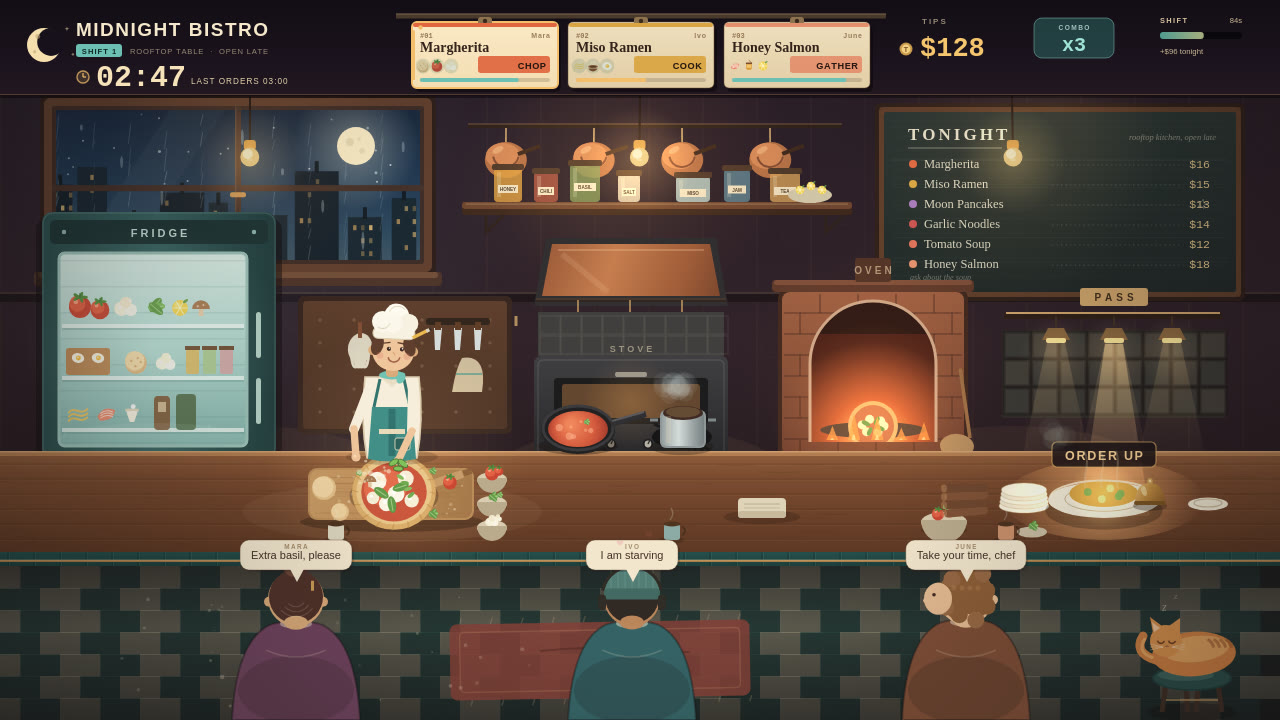
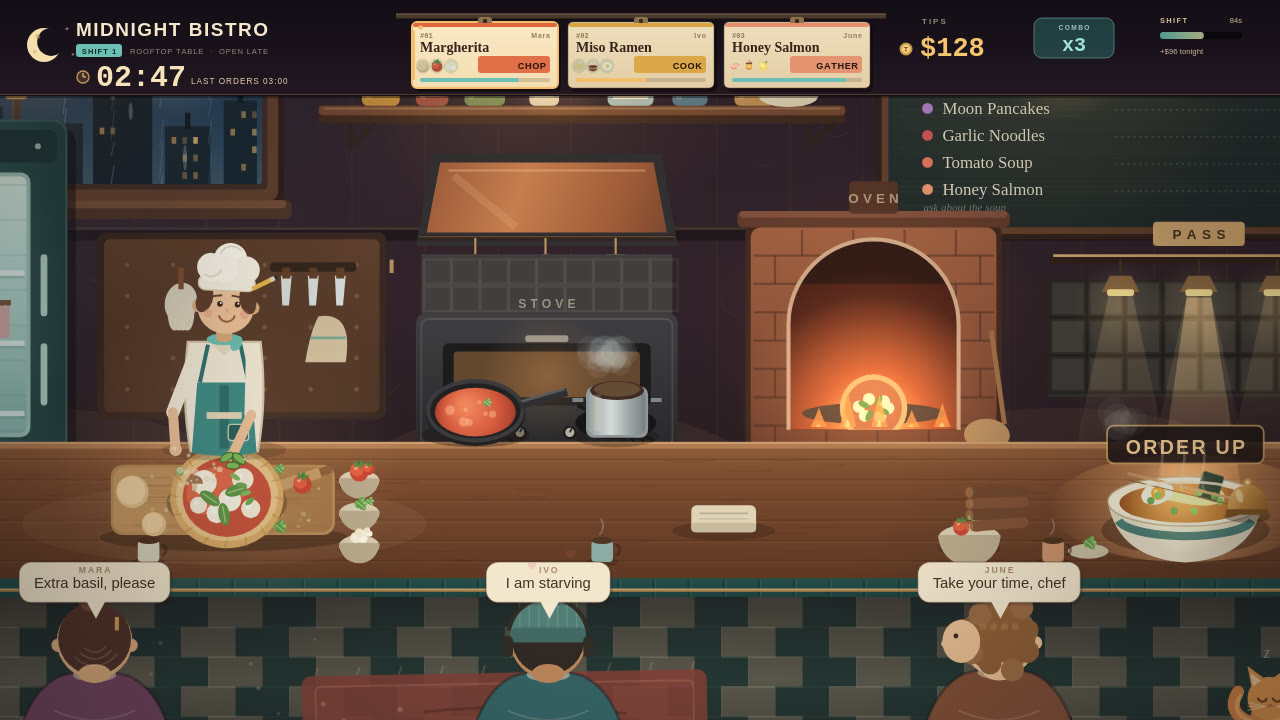
Stage the pass as the payoff: ramen bowl, lit pass, route hint

diff --git a/game/src/render.js b/game/src/render.js
@@ -1238,43 +1238,48 @@ function drawOvenTop(ctx, game) {
 }
 
 function drawPassTop(ctx, game) {
-  // stacked clean plates
-  for (let i = 0; i < 5; i++) {
-    ctx.fillStyle = i % 2 ? '#f0e5cd' : '#faf2df';
-    ctx.beginPath();
-    ctx.ellipse(1024, 506 - i * 4, 25 - i * 0.6, 7, 0, 0, Math.PI * 2);
-    ctx.fill();
-    ctx.strokeStyle = withAlpha('#b7a580', 0.5);
-    ctx.lineWidth = 0.8;
-    ctx.stroke();
-  }
   // plated tickets sit under the heat lamps; the hero bowl fills the middle lamp when the pass is clear
   const plated = game.orders.filter((o) => o && (o.plated || o.step === 'serve'));
-  if (plated.length === 0) {
-    // the middle heat lamp pools straight down onto the plated hero dish
-    ctx.save();
-    ctx.globalCompositeOperation = 'lighter';
-    const lampCone = ctx.createLinearGradient(0, 344, 0, 516);
-    lampCone.addColorStop(0, 'rgba(255,207,130,0.30)');
-    lampCone.addColorStop(1, 'rgba(255,196,118,0.07)');
-    ctx.fillStyle = lampCone;
-    ctx.beginPath();
-    ctx.moveTo(1105, 344);
-    ctx.lineTo(1123, 344);
-    ctx.lineTo(1150, 516);
-    ctx.lineTo(1080, 516);
-    ctx.closePath();
-    ctx.fill();
-    const pool = ctx.createRadialGradient(1104, 500, 4, 1104, 500, 100);
-    pool.addColorStop(0, 'rgba(255,216,148,0.42)');
-    pool.addColorStop(0.6, 'rgba(255,198,122,0.17)');
-    pool.addColorStop(1, 'rgba(255,190,116,0)');
-    ctx.fillStyle = pool;
-    ctx.beginPath();
-    ctx.ellipse(1104, 500, 100, 40, 0, 0, Math.PI * 2);
-    ctx.fill();
-    ctx.restore();
-    drawDish(ctx, 1104, 500, recipeById('ramen'), 2.15, true);
+  // clean plates stack only when a plated order shares the pass; the hero dish stands alone otherwise
+  if (plated.length > 0) {
+    for (let i = 0; i < 5; i++) {
+      ctx.fillStyle = i % 2 ? '#f0e5cd' : '#faf2df';
+      ctx.beginPath();
+      ctx.ellipse(1024, 506 - i * 4, 25 - i * 0.6, 7, 0, 0, Math.PI * 2);
+      ctx.fill();
+      ctx.strokeStyle = withAlpha('#b7a580', 0.5);
+      ctx.lineWidth = 0.8;
+      ctx.stroke();
+    }
+  }
+  // the middle heat lamp always pools straight down onto the pass, whatever is on it
+  ctx.save();
+  ctx.globalCompositeOperation = 'lighter';
+  const lampCone = ctx.createLinearGradient(0, 344, 0, 516);
+  lampCone.addColorStop(0, 'rgba(255,207,130,0.30)');
+  lampCone.addColorStop(1, 'rgba(255,196,118,0.07)');
+  ctx.fillStyle = lampCone;
+  ctx.beginPath();
+  ctx.moveTo(1105, 344);
+  ctx.lineTo(1123, 344);
+  ctx.lineTo(1150, 516);
+  ctx.lineTo(1080, 516);
+  ctx.closePath();
+  ctx.fill();
+  const pool = ctx.createRadialGradient(1104, 500, 4, 1104, 500, 100);
+  pool.addColorStop(0, 'rgba(255,216,148,0.42)');
+  pool.addColorStop(0.6, 'rgba(255,198,122,0.17)');
+  pool.addColorStop(1, 'rgba(255,190,116,0)');
+  ctx.fillStyle = pool;
+  ctx.beginPath();
+  ctx.ellipse(1104, 500, 100, 40, 0, 0, Math.PI * 2);
+  ctx.fill();
+  ctx.restore();
+  if (plated.length <= 1) {
+    // one dish waiting (or the decorative hero when the pass is clear): it fills the middle lamp
+    const hero = plated.length === 1 ? plated[0] : null;
+    const heroRecipe = hero ? hero.recipe : recipeById('ramen');
+    drawDish(ctx, 1104, 500, heroRecipe, hero ? 2.05 : 2.35, hero ? hero.quality === 'perfect' : true);
     // a bright rim keeps the plate from melting into the counter
     ctx.save();
     ctx.strokeStyle = withAlpha('#fff4d6', 0.85);
@@ -1285,12 +1290,12 @@ function drawPassTop(ctx, game) {
     ctx.restore();
     // the pass light box says what the counter already knows
     ctx.fillStyle = withAlpha('#1a1114', 0.88);
-    rr(ctx, 1104 - 52, 442, 104, 25, 5);
+    rr(ctx, 1104 - 58, 439, 116, 28, 5);
     ctx.fill();
-    ctx.strokeStyle = withAlpha('#f3bf6d', 0.65);
-    ctx.lineWidth = 1.2;
+    ctx.strokeStyle = withAlpha('#f3bf6d', 0.7);
+    ctx.lineWidth = 1.3;
     ctx.stroke();
-    text(ctx, 'ORDER UP', 1104, 460, 12.5, '#ffd79a', { weight: 700, spacing: 1.7, align: 'center' });
+    text(ctx, 'ORDER UP', 1104, 460, 14.5, '#ffd79a', { weight: 700, spacing: 1.7, align: 'center' });
     // steam curls rising into the lamp light, so the pass reads as a pass
     ctx.save();
     ctx.strokeStyle = withAlpha('#ffe6bd', 0.26);
@@ -1311,12 +1316,12 @@ function drawPassTop(ctx, game) {
     });
     // the pass light box says what the counter already knows
     ctx.fillStyle = withAlpha('#1a1114', 0.86);
-    rr(ctx, 1114 - 48, 448, 96, 23, 5);
+    rr(ctx, 1114 - 54, 444, 108, 26, 5);
     ctx.fill();
-    ctx.strokeStyle = withAlpha('#f3bf6d', 0.6);
-    ctx.lineWidth = 1.2;
+    ctx.strokeStyle = withAlpha('#f3bf6d', 0.65);
+    ctx.lineWidth = 1.3;
     ctx.stroke();
-    text(ctx, 'ORDER UP', 1114, 465, 11.5, '#ffd79a', { weight: 700, spacing: 1.6, align: 'center' });
+    text(ctx, 'ORDER UP', 1114, 464, 13, '#ffd79a', { weight: 700, spacing: 1.6, align: 'center' });
   }
   // brass bell
   drawBell(ctx, 1150, 502, game);
@@ -1340,7 +1345,105 @@ function drawPassTop(ctx, game) {
   }
 }
 
+function drawRamenBowl(ctx, x, y, scale, sparkle) {
+  const r = 26 * scale;
+  // shadow
+  ctx.fillStyle = 'rgba(24,14,9,0.34)';
+  ctx.beginPath();
+  ctx.ellipse(x, y + 7 * scale, r * 1.02, r * 0.3, 0, 0, Math.PI * 2);
+  ctx.fill();
+  // bowl body: a deep ceramic bowl seen slightly from above
+  const body = ctx.createLinearGradient(x - r, y, x + r, y);
+  body.addColorStop(0, '#e6dcc4');
+  body.addColorStop(0.45, '#f8efd9');
+  body.addColorStop(1, '#d8caae');
+  ctx.fillStyle = body;
+  ctx.beginPath();
+  ctx.moveTo(x - r * 0.94, y - r * 0.06);
+  ctx.quadraticCurveTo(x - r * 0.8, y + r * 0.62, x, y + r * 0.66);
+  ctx.quadraticCurveTo(x + r * 0.8, y + r * 0.62, x + r * 0.94, y - r * 0.06);
+  ctx.closePath();
+  ctx.fill();
+  // teal band on the bowl
+  ctx.strokeStyle = withAlpha('#2f6e69', 0.85);
+  ctx.lineWidth = 2.6 * scale;
+  ctx.beginPath();
+  ctx.ellipse(x, y + r * 0.12, r * 0.82, r * 0.22, 0, 0.15, Math.PI - 0.15);
+  ctx.stroke();
+  // rim
+  ctx.fillStyle = '#fbf3df';
+  ctx.beginPath();
+  ctx.ellipse(x, y - r * 0.08, r * 0.94, r * 0.3, 0, 0, Math.PI * 2);
+  ctx.fill();
+  ctx.strokeStyle = withAlpha('#b9a781', 0.8);
+  ctx.lineWidth = 1.2;
+  ctx.stroke();
+  // broth
+  const broth = ctx.createRadialGradient(x - r * 0.2, y - r * 0.14, 2, x, y - r * 0.08, r * 0.8);
+  broth.addColorStop(0, '#d99a4a');
+  broth.addColorStop(0.7, '#b8722f');
+  broth.addColorStop(1, '#96521f');
+  ctx.fillStyle = broth;
+  ctx.beginPath();
+  ctx.ellipse(x, y - r * 0.06, r * 0.8, r * 0.24, 0, 0, Math.PI * 2);
+  ctx.fill();
+  // noodle swirl
+  ctx.strokeStyle = withAlpha('#f3df9d', 0.95);
+  ctx.lineWidth = 2.1 * scale;
+  for (let i = 0; i < 3; i++) {
+    ctx.beginPath();
+    ctx.moveTo(x - r * 0.52 + i * 3, y - r * 0.1);
+    ctx.bezierCurveTo(x - r * 0.2, y - r * 0.24 - i * 2, x + r * 0.1, y + r * 0.04, x + r * 0.46, y - r * 0.12 - i * 2);
+    ctx.stroke();
+  }
+  // egg half
+  ctx.fillStyle = '#fbf4e2';
+  ctx.beginPath();
+  ctx.ellipse(x - r * 0.34, y - r * 0.18, r * 0.2, r * 0.13, -0.35, 0, Math.PI * 2);
+  ctx.fill();
+  circle(ctx, x - r * 0.33, y - r * 0.18, r * 0.085, '#e39a2c');
+  circle(ctx, x - r * 0.36, y - r * 0.2, r * 0.028, withAlpha('#ffd98a', 0.9));
+  // nori
+  ctx.save();
+  ctx.translate(x + r * 0.3, y - r * 0.26);
+  ctx.rotate(0.28);
+  ctx.fillStyle = '#22392c';
+  rr(ctx, -r * 0.13, -r * 0.16, r * 0.26, r * 0.32, 1.8);
+  ctx.fill();
+  ctx.strokeStyle = withAlpha('#4a6a52', 0.8);
+  ctx.lineWidth = 0.8;
+  ctx.stroke();
+  ctx.restore();
+  // scallions
+  for (let i = 0; i < 7; i++) {
+    const a = i * 1.9;
+    circle(ctx, x + Math.cos(a) * r * 0.42, y - r * 0.08 + Math.sin(a) * r * 0.12, r * 0.045, i % 2 ? '#5f9e4d' : '#7fbc5f');
+  }
+  // chopsticks resting across the rim
+  ctx.save();
+  ctx.strokeStyle = '#c79a68';
+  ctx.lineWidth = 2.2;
+  ctx.beginPath();
+  ctx.moveTo(x - r * 0.7, y - r * 0.42);
+  ctx.lineTo(x + r * 0.55, y - r * 0.12);
+  ctx.stroke();
+  ctx.strokeStyle = withAlpha('#8a5f39', 0.9);
+  ctx.lineWidth = 1;
+  ctx.beginPath();
+  ctx.moveTo(x - r * 0.7, y - r * 0.34);
+  ctx.lineTo(x + r * 0.55, y - r * 0.04);
+  ctx.stroke();
+  ctx.restore();
+  if (sparkle) {
+    ctx.save();
+    ctx.globalCompositeOperation = 'lighter';
+    glow(ctx, x, y - 6, 40, '#ffd88a', 0.24);
+    ctx.restore();
+  }
+}
+
 function drawDish(ctx, x, y, recipe, scale = 1, sparkle = false) {
+  if (recipe && recipe.id === 'ramen') return drawRamenBowl(ctx, x, y, scale, sparkle);
   const r = 26 * scale;
   ctx.save();
   ctx.fillStyle = 'rgba(24,14,9,0.3)';
@@ -1856,6 +1959,7 @@ function drawPopups(ctx, game) {
 // ---------------------------------------------------------------- full frame
 export function drawWorld(ctx, game) {
   ctx.save();
+  clampCamera(game.camera);
   applyCamera(ctx, game);
   wallPanel(ctx);
   drawWindow(ctx, game);

diff --git a/game/src/shots.js b/game/src/shots.js
@@ -132,15 +132,15 @@ export function stageShot(game, kind, seed = 7) {
     ticket(game, 1, 'margherita', 'chop', 0.55, { gathered: true, chops: 1 });
     moveChefTo(game.chef, 'pass', 0);
     setPose(game.chef, 'ring', 99);
-    game.camera = createCamera(1210, 480, 2.35);
+    game.camera = createCamera(1008, 430, 2.1);
     game.tips = 128;
     game.combo = 3;
     game.tipsEarned = 114;
     game.served = 3;
     game.lastTip = { amount: 18, mult: 3, t: 2.1, slot: 2 };
-    addPopup(game, '+$18 x3', 966, 512, '#ffd79a');
-    emitHearts(game, 966, 582, 7);
-    emitCoins(game, 966, 596, 1004, 54, 4);
+    addPopup(game, '+$18 x3', 1104, 470, '#ffd79a');
+    emitHearts(game, 1104, 566, 7);
+    emitCoins(game, 1104, 596, 1104, 54, 4);
     emitSteam(game, 1058, 452, 8, 14, { a: 0.16 });
     game.hintText = 'ORDER UP  ·  ring the bell to send the ramen';
     game.hintT = 99;
@@ -161,7 +161,7 @@ export function stageShot(game, kind, seed = 7) {
       game.chop.pos = 0.47;
       o0.chops = 2;
     }
-    game.camera = createCamera(640, 400, 1);
+    game.camera = createCamera(700, 420, 1.35);
     game.tips = 128;
     game.combo = 3;
     game.shiftTime = 96;
@@ -184,7 +184,8 @@ export function stageShot(game, kind, seed = 7) {
     game.chop = kind === 'cover' ? game.chop : null;
   }
   if (kind !== 'stove') game.cook = null;
-  game.hintT = 0;
+  // the staging hint is part of the shot: the screenshots show the game teaching a route
+  if (kind !== 'cover' && kind !== 'serve') game.hintT = 0;
   return game;
 }
 
